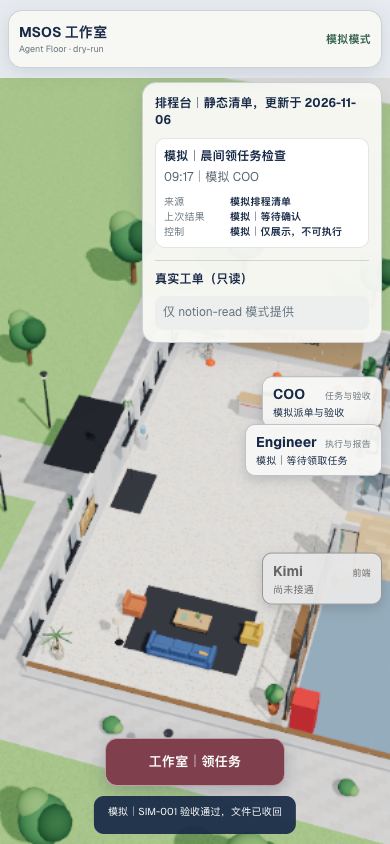
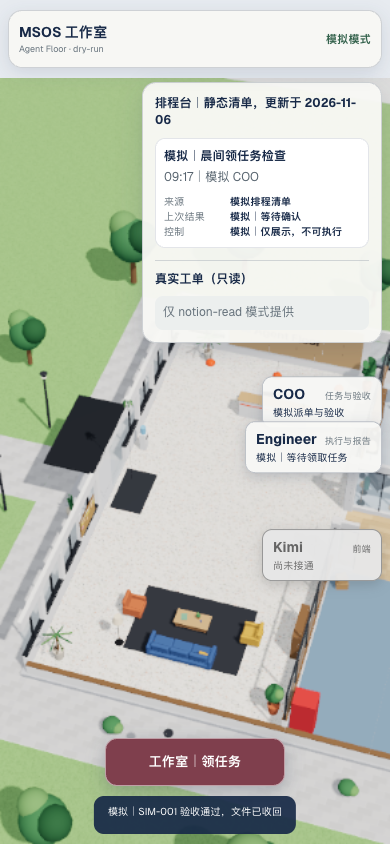
[KIMI] ENG-160 studio UI v4 readonly polish

Changed region(s): [[0.6462, 0.6161, 0.9846, 0.7393], [0.6462, 0.4929, 0.9846, 0.5853]]

diff --git a/src/studio/StudioHud.ts b/src/studio/StudioHud.ts
@@ -1,5 +1,5 @@
 import type { Anchor } from '../world/World';
-import { bridgeView, latestReport, realWorkView, StudioStore, type StudioReport, type StudioRealTicket } from './state';
+import { bridgeView, canStudioClaim, latestReport, realCountsView, realGroupEmptyText, realWorkView, StudioStore, type StudioRealCounts, type StudioReport, type StudioRealTicket } from './state';
 
 function esc(value: string) {
   return value.replace(/[&<>"']/g, (c) => ({ '&': '&amp;', '<': '&lt;', '>': '&gt;', '"': '&quot;', "'": '&#39;' })[c]!);
@@ -96,23 +96,31 @@ export class StudioHud {
 
   private render() {
     const state = this.studio.state;
+    const readOnly = !canStudioClaim(state);
     this.tick();
-    this.notice.textContent = state.notice;
+    this.notice.textContent = readOnly ? '等待领取（只读模式，暂不可领）' : state.notice;
     const engineer = this.tags.get('engineer')!;
-    engineer.querySelector('.studio-task')!.textContent = state.engineer.blocked
-      ? '举手 · 点击查看阻塞原因'
-      : state.engineer.claimPending
-        ? '已送出领取请求，等待确认'
-        : state.engineer.taskTitle;
-    engineer.classList.toggle('blocked', Boolean(state.engineer.blocked));
-    engineer.classList.toggle('pending', state.engineer.claimPending);
-    this.tags.get('coo')!.querySelector('.studio-task')!.textContent = state.engineer.taskId ? `模拟工单 ${state.engineer.taskId}` : '模拟派单与验收';
+    engineer.querySelector('.studio-task')!.textContent = readOnly
+      ? '等待领取（只读模式，暂不可领）'
+      : state.engineer.blocked
+        ? '举手 · 点击查看阻塞原因'
+        : state.engineer.claimPending
+          ? '已送出领取请求，等待确认'
+          : state.engineer.taskTitle;
+    engineer.classList.toggle('blocked', !readOnly && Boolean(state.engineer.blocked));
+    engineer.classList.toggle('pending', !readOnly && state.engineer.claimPending);
+    engineer.classList.toggle('read-only', readOnly);
+    this.tags.get('coo')!.querySelector('.studio-task')!.textContent = readOnly
+      ? '只读工单与验收'
+      : state.engineer.taskId ? `模拟工单 ${state.engineer.taskId}` : '模拟派单与验收';
     this.tags.get('kimi')!.querySelector('.studio-task')!.textContent = state.kimi.status;
 
+    this.launcher.disabled = readOnly;
+    this.launcher.textContent = readOnly ? '只读模式，真实领取未开放' : '工作室｜领任务';
     const claim = this.menu.querySelector<HTMLButtonElement>('.studio-claim')!;
-    claim.disabled = state.engineer.claimPending;
+    claim.disabled = readOnly || state.engineer.claimPending;
     claim.textContent = state.engineer.claimPending ? '已送出领取请求，等待确认' : '向 COO 领任务';
-    this.menu.querySelector<HTMLElement>('.studio-menu-reason')!.textContent = state.engineer.lastRejection || '';
+    this.menu.querySelector<HTMLElement>('.studio-menu-reason')!.textContent = readOnly ? '只读模式，真实领取未开放' : state.engineer.lastRejection || '';
     this.renderSchedule();
     this.renderFile();
     this.renderModal();
@@ -120,8 +128,9 @@ export class StudioHud {
 
   private renderSchedule() {
     const schedule = this.studio.state.schedule;
+    const empty = schedule.simulated ? '模拟｜目前没有排程' : '目前没有排程';
     const scheduleBody = schedule.loaded
-      ? `<h2>排程台｜静态清单，更新于 ${esc(schedule.updatedAt || '日期未提供')}</h2><ol>${schedule.items.length ? schedule.items.map((item) => `<li><strong>${esc(item.name)}</strong><span>${esc(item.time)}｜${esc(item.owner)}</span><dl><div><dt>来源</dt><dd>${esc(item.source)}</dd></div><div><dt>上次结果</dt><dd>${esc(item.lastResult)}</dd></div><div><dt>控制</dt><dd>${esc(item.control)}</dd></div></dl></li>`).join('') : '<li>模拟｜目前没有排程</li>'}</ol>`
+      ? `<h2>排程台｜静态清单，更新于 ${esc(schedule.updatedAt || '日期未提供')}</h2><ol>${schedule.items.length ? schedule.items.map((item) => `<li><strong>${esc(item.name)}</strong><span>${esc(item.time)}｜${esc(item.owner)}</span><dl><div><dt>来源</dt><dd>${esc(item.source)}</dd></div><div><dt>上次结果</dt><dd>${esc(item.lastResult)}</dd></div><div><dt>控制</dt><dd>${esc(item.control)}</dd></div></dl></li>`).join('') : `<li>${empty}</li>`}</ol>`
       : '<h2>排程台｜静态清单</h2><p>排程清单未载入</p>';
     this.schedule.innerHTML = scheduleBody + this.realMarkup();
   }
@@ -130,17 +139,21 @@ export class StudioHud {
     const state = this.studio.state;
     const view = realWorkView(state);
     const body = view.kind === 'ready'
-      ? this.realGroup('进行中', state.real.working) + this.realGroup('可领取', state.real.claimable)
+      ? this.realCounts(state.real.counts) + this.realGroup('可领取', state.real.claimable, 'claimable') + this.realGroup('进行中', state.real.working, 'working')
       : `<p class="studio-real-message">${view.text}</p>`;
     return `<section class="studio-real"><h2>真实工单（只读）</h2>${body}</section>`;
   }
 
-  private realGroup(label: string, items: StudioRealTicket[]) {
+  private realCounts(counts: StudioRealCounts) {
+    return `<p class="studio-real-counts">${realCountsView(counts)}</p>`;
+  }
+
+  private realGroup(label: string, items: StudioRealTicket[], group: string) {
     const body = items.length ? `<ul>${items.map((item) => {
       const url = safeUrl(item.url);
       return `<li><strong>${esc(item.id)}</strong><span>${esc(item.title)}</span><small>${esc(item.status)}｜截止 ${esc(item.deadline)}</small>${url ? `<a href="${url}" target="_blank" rel="noreferrer">Notion ↗</a>` : ''}</li>`;
-    }).join('')}</ul>` : '<p>目前没有工单</p>';
-    return `<section class="studio-real-group"><h3>${label}</h3>${body}</section>`;
+    }).join('')}</ul>` : `<p>${realGroupEmptyText(group, items)}</p>`;
+    return `<section class="studio-real-group" data-group="${group}"><h3>${label}</h3>${body}</section>`;
   }
 
   private renderFile() {

diff --git a/src/studio/state.js b/src/studio/state.js
@@ -6,8 +6,8 @@ export function createStudioState() {
     bridge: { received: false, connection: 'unknown', mode: 'dry-run', connected: null, lastUpdateTs: null, note: '尚未收到桥接状态' },
     engineer: { taskId: null, taskTitle: '模拟｜等待领取任务', blocked: null, claimPending: false, lastRejection: null },
     kimi: { status: '尚未接通' },
-    schedule: { loaded: false, updatedAt: null, items: [] },
-    real: { ok: null, working: [], claimable: [], error: null },
+    schedule: { loaded: false, updatedAt: null, simulated: true, items: [] },
+    real: { ok: null, working: [], claimable: [], counts: { open: null, claimable: null, working: null, blocked: null, review: null }, error: null },
     reports: {},
     reportOrder: [],
     reviewPending: {},
@@ -31,7 +31,8 @@ export function applyStudioEvent(state, ev) {
       };
       break;
     }
-    case 'bridge_status':
+    case 'bridge_status': {
+      const previousMode = state.bridge.mode;
       state.bridge = {
         received: true,
         connection: 'connected',
@@ -40,7 +41,14 @@ export function applyStudioEvent(state, ev) {
         lastUpdateTs: Number.isFinite(ev.last_update_ts) ? ev.last_update_ts : null,
         note: String(ev.note || '桥接状态已更新'),
       };
+      if (state.bridge.mode === 'notion-read') {
+        state.engineer.claimPending = false;
+        state.notice = '等待领取（只读模式，暂不可领）';
+      } else if (previousMode === 'notion-read' && state.bridge.mode === 'dry-run') {
+        state.notice = '模拟｜点击 Engineer，选择「向 COO 领任务」';
+      }
       break;
+    }
     case 'claim_confirmed':
       if (ev.agent !== 'engineer') break;
       state.engineer.taskId = String(ev.task_id || 'SIM-001');
@@ -113,19 +121,26 @@ export function applyStudioEvent(state, ev) {
 
 export function setStudioSchedule(state, board) {
   if (!board || !Array.isArray(board.items)) {
-    state.schedule = { loaded: false, updatedAt: null, items: [] };
+    state.schedule = { loaded: false, updatedAt: null, simulated: true, items: [] };
     return state;
   }
+  const source = board.source ?? board.items.find((item) => item && typeof item === 'object' && item.source)?.source;
+  const simulated = String(source || '') === '模拟';
+  const clean = (value, fallback = '未提供') => {
+    const text = String(value || fallback);
+    return simulated ? text : text.replace(/模拟[｜|]?/g, '').trim();
+  };
   state.schedule = {
     loaded: true,
     updatedAt: board.updatedAt ? String(board.updatedAt) : '日期未提供',
+    simulated,
     items: board.items.filter((item) => item && typeof item === 'object').map((item) => ({
-      name: String(item.name || '模拟｜未命名排程'),
-      owner: String(item.owner || '未提供'),
-      time: String(item.time || '未提供'),
-      source: String(item.source || '未提供'),
-      lastResult: String(item.lastResult || '未提供'),
-      control: String(item.control || '未提供'),
+      name: clean(item.name, simulated ? '模拟｜未命名排程' : '未命名排程'),
+      owner: clean(item.owner),
+      time: clean(item.time),
+      source: clean(item.source),
+      lastResult: clean(item.lastResult),
+      control: clean(item.control),
     })),
   };
   return state;
@@ -144,10 +159,12 @@ export function setStudioReal(state, real) {
     deadline: item.deadline ? String(item.deadline) : '未提供',
     url: item.url ? String(item.url) : null,
   })) : [];
+  const count = (key) => Number.isFinite(real?.counts?.[key]) ? real.counts[key] : null;
   state.real = {
     ok: Boolean(real && real.ok === true),
     working: read(real?.working),
     claimable: read(real?.claimable),
+    counts: { open: count('open'), claimable: count('claimable'), working: count('working'), blocked: count('blocked'), review: count('review') },
     error: real?.error ? String(real.error) : null,
   };
   return state;
@@ -160,9 +177,28 @@ export function realWorkView(state) {
   return { kind: 'ready', text: '' };
 }
 
+export function realCountsView(counts) {
+  const value = (count) => Number.isFinite(count) ? String(count) : '未提供';
+  return `开放${value(counts.open)}｜可领取${value(counts.claimable)}｜进行中${value(counts.working)}｜被挡住${value(counts.blocked)}｜待验收${value(counts.review)}`;
+}
+
+export function realGroupEmptyText(group, items) {
+  if (items.length) return '';
+  return group === 'claimable' ? '目前没有可领取的单' : '目前没有工单';
+}
+
+export function canStudioClaim(state) {
+  return state.bridge.mode !== 'notion-read';
+}
+
 /** Record the intent only. Confirmation events, never clicks, complete the work. */
 export function beginStudioAction(state, payload) {
   const action = { ...payload, ts: Number.isFinite(payload.ts) ? payload.ts : Date.now() };
+  if (action.action === 'claim_request' && !canStudioClaim(state)) {
+    state.engineer.claimPending = false;
+    state.notice = '等待领取（只读模式，暂不可领）';
+    return action;
+  }
   state.actions.push(action);
   if (action.action === 'claim_request' && action.agent === 'engineer') {
     state.engineer.claimPending = true;
@@ -185,7 +221,7 @@ export function bridgeView(state, now = Date.now()) {
   const b = state.bridge;
   if (b.connection === 'disconnected') return { text: '桥接未连接', title: '桥接未连接', stale: true, note: b.note };
   if (!b.received) return { text: '状态未知', title: '状态未知', stale: true, note: b.note };
-  const title = { 'dry-run': '模拟模式', 'notion-read': '只读真实工单｜领取仍为模拟', live: '真实模式' }[b.mode] || '状态未知';
+  const title = { 'dry-run': '模拟模式', 'notion-read': '只读真实工单｜真实领取未开放', live: '真实模式' }[b.mode] || '状态未知';
   const stale = !b.connected || !b.lastUpdateTs || now - b.lastUpdateTs > 60_000;
   if (stale) {
     const time = b.lastUpdateTs

diff --git a/src/studio/state.d.ts b/src/studio/state.d.ts
@@ -3,14 +3,15 @@ export interface StudioEvent { type: StudioEventType; agent?: string; task_id?: 
 export interface StudioAction { action: 'claim_request' | 'review'; agent?: string; task_id?: string; result?: string; note?: string; ts: number }
 export interface StudioReport { taskId: string; status: 'ready' | 'rejected'; summary: string; reportUrl: string | null; reportLocal: string | null; note: string }
 export interface StudioScheduleItem { name: string; owner: string; time: string; source: string; lastResult: string; control: string }
-export interface StudioScheduleBoard { updatedAt?: string; items?: StudioScheduleItem[] }
+export interface StudioScheduleBoard { updatedAt?: string; source?: string; items?: StudioScheduleItem[] }
 export interface StudioRealTicket { id: string; title: string; status: string; deadline: string; url: string | null }
-export interface StudioRealState { ok: boolean | null; working: StudioRealTicket[]; claimable: StudioRealTicket[]; error: string | null }
+export interface StudioRealCounts { open: number | null; claimable: number | null; working: number | null; blocked: number | null; review: number | null }
+export interface StudioRealState { ok: boolean | null; working: StudioRealTicket[]; claimable: StudioRealTicket[]; counts: StudioRealCounts; error: string | null }
 export interface StudioState {
   bridge: { received: boolean; connection: 'unknown' | 'connected' | 'disconnected'; mode: string; connected: boolean | null; lastUpdateTs: number | null; note: string };
   engineer: { taskId: string | null; taskTitle: string; blocked: { taskId: string; reason: string } | null; claimPending: boolean; lastRejection: string | null };
   kimi: { status: '尚未接通' };
-  schedule: { loaded: boolean; updatedAt: string | null; items: StudioScheduleItem[] };
+  schedule: { loaded: boolean; updatedAt: string | null; simulated: boolean; items: StudioScheduleItem[] };
   real: StudioRealState;
   reports: Record<string, StudioReport>; reportOrder: string[]; reviewPending: Record<string, { result: string; note: string }>; notice: string; actions: StudioAction[];
 }
@@ -20,6 +21,9 @@ export function setStudioSchedule(state: StudioState, board: StudioScheduleBoard
 export function setStudioReal(state: StudioState, real: Partial<StudioRealState> | null): StudioState;
 export function setStudioBridgeConnection(state: StudioState, connected: boolean): StudioState;
 export function realWorkView(state: StudioState): { kind: 'mode' | 'error' | 'loading' | 'ready'; text: string };
+export function realCountsView(counts: StudioRealCounts): string;
+export function realGroupEmptyText(group: string, items: StudioRealTicket[]): string;
+export function canStudioClaim(state: StudioState): boolean;
 export function beginStudioAction(state: StudioState, payload: Omit<StudioAction, 'ts'> & { ts?: number }): StudioAction;
 export function latestReport(state: StudioState): StudioReport | null;
 export function bridgeView(state: StudioState, now?: number): { text: string; title: string; stale: boolean; note: string };

diff --git a/src/studio/boot.ts b/src/studio/boot.ts
@@ -4,7 +4,7 @@ import { runDryRun } from '../../sim/dry-run.js';
 import { store } from '../core/store';
 import { World } from '../world/World';
 import { StudioHud } from './StudioHud';
-import { latestReport, StudioStore, type StudioEvent } from './state';
+import { canStudioClaim, latestReport, StudioStore, type StudioEvent } from './state';
 import { fetchStudioState, postStudioAction, subscribeBridge, useBridge, type StudioActionPayload } from './transport';
 
 export async function bootStudio(app: HTMLElement, stage: HTMLElement) {
@@ -22,6 +22,11 @@ export async function bootStudio(app: HTMLElement, stage: HTMLElement) {
   });
 
   const sendAction = async (payload: Omit<StudioActionPayload, 'ts'>) => {
+    if (payload.action === 'claim_request' && !canStudioClaim(studio.state)) {
+      studio.state.notice = '等待领取（只读模式，暂不可领）';
+      studio.emit();
+      return;
+    }
     const action = studio.beginAction({ ...payload, ts: Date.now() });
     try {
       await postStudioAction(action);
@@ -114,8 +119,8 @@ export async function bootStudio(app: HTMLElement, stage: HTMLElement) {
     dispatch({ type: 'report_ready', agent: 'engineer', task_id: 'SIM-001', report_local: '/sim-reports/SIM-001-report.md', summary: '模拟｜已完成三角色桌面、领取确认、阻塞举手与验收交互；本文件只是本地演示。' });
     hud.openReport();
   } else if (capture === 'notion-read') {
-    dispatch({ type: 'bridge_status', mode: 'notion-read', connected: true, last_update_ts: now, note: '模拟｜notion-read 展示，未读取 Notion' });
-    studio.setReal({ ok: true, working: [{ id: 'SIM-READ-001', title: '模拟｜进行中的只读工单', status: '进行中', deadline: '2026-11-07', url: 'https://app.notion.com/' }], claimable: [{ id: 'SIM-READ-002', title: '模拟｜可领取的只读工单', status: '可领取', deadline: '2026-11-08', url: 'https://app.notion.com/' }] });
+    dispatch({ type: 'bridge_status', mode: 'notion-read', connected: true, last_update_ts: now, note: '只读展示，未读取 Notion' });
+    studio.setReal({ ok: true, counts: { open: 2, claimable: 1, working: 1, blocked: 0, review: 0 }, working: [{ id: 'SIM-READ-001', title: '只读｜进行中的工单', status: '进行中', deadline: '2026-11-07', url: 'https://app.notion.com/' }], claimable: [{ id: 'SIM-READ-002', title: '只读｜可领取的工单', status: '可领取', deadline: '2026-11-08', url: 'https://app.notion.com/' }] });
   } else if (capture === 'offline') {
     dispatch({ type: 'bridge_status', mode: 'dry-run', connected: false, last_update_ts: now - 65_000, note: '模拟｜桥接断线证据' });
   } else if (capture === 'bridge-offline') {

diff --git a/src/studio/studio.css b/src/studio/studio.css
@@ -18,7 +18,12 @@
 .studio-real-group li>strong{font-size:11px}.studio-real-group li>span{font-size:11px}.studio-real-group small{font-size:10px;color:#68747d}
 .studio-real-group a{display:inline-flex;align-items:center;justify-content:center;min-height:44px;margin-top:4px;border:1px solid #8a969e;border-radius:8px;color:#294d68;font-size:11px;font-weight:700;text-decoration:none}
 .studio-real-message{padding:8px!important;border-radius:8px;background:#ecefee}
+.studio-real-counts{font-size:9px!important;font-weight:700;white-space:nowrap;color:#435363!important}
 .studio-launcher{position:absolute;left:50%;bottom:calc(max(14px,env(safe-area-inset-bottom)) + 50px);transform:translateX(-50%);min-width:180px;min-height:48px;padding:10px 18px;border:1px solid rgba(255,255,255,.5);border-radius:12px;background:#7f3f4d;color:#fff;box-shadow:0 5px 18px rgba(23,41,71,.24);font-size:14px;font-weight:750;cursor:pointer;z-index:4500}
+.studio-launcher:disabled,.studio-claim:disabled{background:#d4d7d8;color:#61676d;border-color:#a9b0b4;box-shadow:none;cursor:not-allowed}
+.studio-launcher:disabled{white-space:nowrap;font-size:12px}
+.studio-tag.read-only{min-width:176px;max-width:190px}
+.studio-tag.read-only .studio-task{font-size:9px;white-space:nowrap;overflow:visible;text-overflow:clip}
 .studio-launcher:focus-visible{outline:3px solid #236b8e;outline-offset:3px}
 @media(max-width:600px){.studio-banner{left:8px;right:8px;padding:8px 10px;gap:8px}.studio-brand strong{font-size:14px}.studio-brand span{font-size:9px}.studio-bridge{font-size:11px;max-width:205px}.studio-tag{min-width:120px;max-width:160px}.studio-schedule{top:82px;right:8px;width:240px;max-height:300px;padding:12px}.studio-schedule h2{font-size:12px;margin-bottom:8px}.studio-schedule li{padding:8px}.studio-schedule dl{font-size:10px}.studio-notice{bottom:max(10px,env(safe-area-inset-bottom));font-size:10px}.studio-launcher{bottom:calc(max(10px,env(safe-area-inset-bottom)) + 48px);min-height:48px;font-size:13px}.studio-menu,.studio-modal{padding:20px 18px}.studio-review-actions{gap:8px}}
 @media(prefers-reduced-motion:reduce){.studio-hud *{animation:none!important;transition:none!important}}

diff --git a/docs/eng-160/HANDOFF_V4.md b/docs/eng-160/HANDOFF_V4.md
@@ -1,0 +1,34 @@
+# ENG-160-UI v4 — 模式文案、只读领取限制与工单计数
+
+## STATUS
+
+DONE（dry-run／本地 notion-read 验证）。基线：fork `main` 已合并 PR #2，并推送 tag `studio-v3`；分支：`kimi/studio-ui-v4`。未修改 bridge、server、`shared/protocol.js` 或 arthur-os；未连接真实 Notion，未使用真实 token，未开放真实领取。
+
+## CHANGED
+
+- `src/studio/state.js`、`state.d.ts`：notion-read 下固定只读提示并在状态层拦截 claim intent，不记录 action；横幅改为「只读真实工单｜真实领取未开放」。新增五项 counts、`realCountsView()` 与可领取空态文案。排程板显示 updatedAt，并按 JSON `source` 是否严格等于「模拟」决定是否清理各字段的「模拟」字样。
+- `src/studio/boot.ts`：发送动作前再次拦截 notion-read claim，保证不会 POST `/actions`；更新合成只读 capture 的计数与无「模拟」文案。
+- `src/studio/StudioHud.ts`：notion-read 的 Engineer 名牌与底部提示固定为「等待领取（只读模式，暂不可领）」；领任务按钮和角色菜单 claim 按钮置灰并显示「只读模式，真实领取未开放」。真实工单顶部显示 open／claimable／working／blocked／review 计数；可领取分组置前，空时显示「目前没有可领取的单」；列表仍无动作按钮。
+- `src/studio/studio.css`：只读按钮置灰、完整只读名牌、计数单行与手机布局。
+- `public/schedule-board.json`：样本增加顶层 `source: "模拟"`，保留现有字段与 updatedAt。
+- `test/studio.test.mjs`：新增 3 项测试（notion-read 不发 claim、五项计数含 0、可领取空态）；原排程测试增加非模拟 source 清理文案的断言。
+- `scripts/studio-browser.mjs`：新增 v4 双模式检查；通过 CDP 网络记录确认 notion-read 点击后 `/actions` 请求数为 0，同时检查按钮、菜单、计数、分组顺序、空态和完整文案。
+- `scripts/studio-v4-fake-notion.mjs`：仅监听 `127.0.0.1:4320` 的合成查询样本，供未修改的 bridge 以 `--notion-read` 验证；不含真实编号、主机或凭证。
+- `docs/eng-160/evidence/`：新增 v4 双模式截图并更新浏览器检查 JSON 与回归截图。
+
+## TESTED
+
+- `npm test`：27/27 PASS（原 24 项＋新增 3 项）。
+- `npm run build`：TypeScript 与 Vite production build PASS。
+- `node scripts/studio-browser.mjs`：390×844 mobile emulation PASS；v1／v2／v3 回归通过，dry-run 领取到验收端到端通过。
+- notion-read 使用本地 bridge `--notion-read`＋本机假查询端点，五项计数为 `3／0／1／1／1`，可领取为空且置前；点击底部入口和角色菜单 claim 均未发 `/actions`，`notionReadClaimRequests: 0`。
+- 两张最终截图已逐张检查，只读名牌与按钮原因无省略或裁切。
+
+## 截图
+
+- `v4-dry-run.png`：本地 dry-run bridge；保留「模拟｜…」与可用领取入口。
+- `v4-notion-read.png`：本地 notion-read bridge＋合成查询样本；只读横幅、五项计数、可领取空态、完整名牌与置灰入口。
+
+## 未接真实的部分
+
+真实 Notion 查询、真实凭证、真实领取、执行与验收均未连接或启用。notion-read 证据来自本机合成数据；Kimi 席位仍固定「尚未接通」；排程仍是静态 JSON；没有 ArthurDay 入口或新增业务动作。
